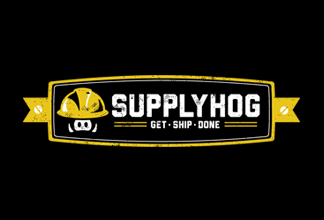
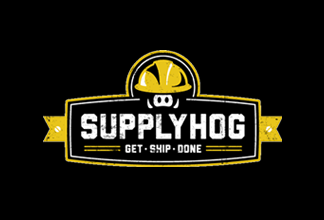
Updates
updated supply hog logo, added spots for delegator and vairable. hid
delegator and wecounsel

Changed region(s): [[0.0617, 0.2182, 0.9259, 0.7636]]

diff --git a/index.html b/index.html
@@ -44,6 +44,10 @@
 					<img src="img/startups/campus.png" title="Campus Bellhops" alt="Student Muscle for moving day">
 					<h2>Campus Bellhops</h2>
 				</a>
+				<!--<a href="http://delegator.com/" class="startups-entry">
+					<img src="img/startups/delegator.png" title="Delegator" alt="Get it done">
+					<h2>Delegator</h2>
+				</a>-->
 				<a href="http://fancyrhino.com" class="startups-entry">
 					<img src="img/startups/fancy.png" title="Fancy Rhino" alt="Thumbnail for Illustrations Portfolio entry">
 					<h2>Fancy Rhino</h2>
@@ -76,9 +80,13 @@
 					<img src="img/startups/supply.png" title="Supply Hog" alt="Get. Ship. Done.">
 					<h2>Supply Hog</h2>
 				</a>
-				<a href="http://facebook.com/wecounselsolutions" class="startups-entry">
+				<!--<a href="http://facebook.com/wecounselsolutions" class="startups-entry">
 					<img src="img/startups/wecounsel.png" title="WeCounsel" alt="An online therapy innovation">
 					<h2>WeCounsel</h2>
+				</a>-->
+				<a href="http://variabletech.com/" class="startups-entry">
+					<img src="img/startups/variable.png" title="Variable Technologies" alt="We are a world of gadgeteers">
+					<h2>Variable Technologies</h2>
 				</a>
 				<a href="http://woople.com/" class="startups-entry">
 					<img src="img/startups/woople.png" title="Woople" alt="Simple eLearning">
